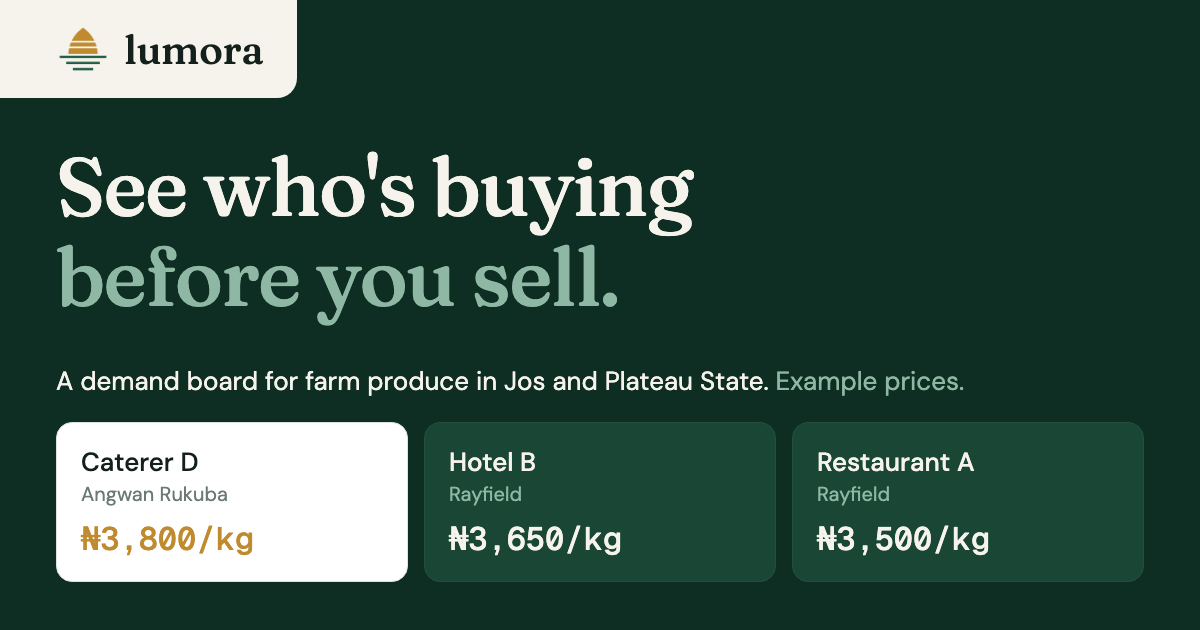
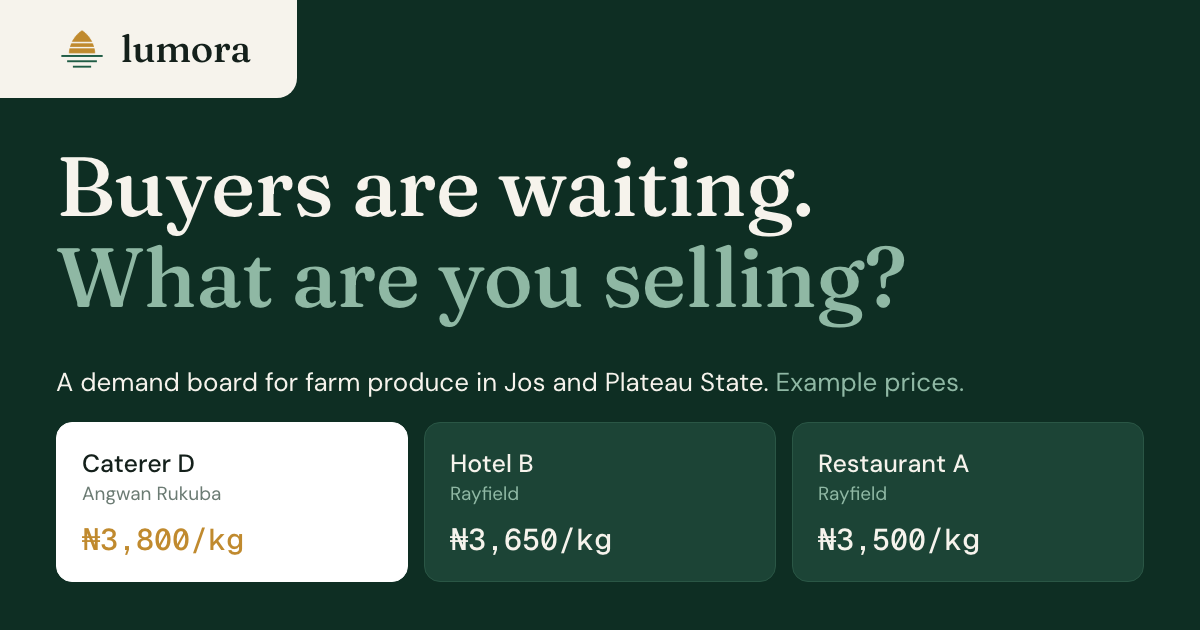
feat: new tagline, "Buyers are waiting. What are you selling?"
- Update the landing headline, Marketplace header, auth screen and site title
- Rebuild the Open Graph and Twitter share images with the new line
- Update BRAND.md and README.md

diff --git a/front-end/app/dashboard/marketplace/page.tsx b/front-end/app/dashboard/marketplace/page.tsx
@@ -266,7 +266,7 @@ export default function MarketplacePage() {
           <div className="px-5 pt-24 pb-6 sm:px-10 sm:pt-28 sm:pb-9 lg:px-14 lg:pt-32 lg:pb-11">
             <p data-card="rise" className="text-body-sm font-medium text-ink/70">Lumora · Marketplace</p>
             <h1 data-card="rise" className="mt-1 text-[28px] leading-[1.15] font-medium tracking-tight text-ink sm:text-[38px]">
-              See who&apos;s buying<br /><span className="text-green">before you sell.</span>
+              Buyers are waiting.<br /><span className="text-green">What are you selling?</span>
             </h1>
             <p data-card="rise" className="mt-2 max-w-[32rem] text-body text-ink/80">
               Active buyers near Jos. Real bids, live capacity.

diff --git a/front-end/components/landing/hero.tsx b/front-end/components/landing/hero.tsx
@@ -102,7 +102,7 @@ export function Hero() {
             "max-w-[40rem] font-display text-display-xl-sm font-medium text-balance md:text-display-xl",
           )}
         >
-          See who&apos;s buying <span className="text-sage">before you sell.</span>
+          Buyers are waiting. <span className="block text-sage">What are you selling?</span>
         </h1>
         <p
           className={cn(ENTER, "mt-4 max-w-[34rem] text-lg leading-7 motion-safe:delay-100")}

diff --git a/front-end/lib/site.ts b/front-end/lib/site.ts
@@ -1,5 +1,5 @@
 export const SITE_NAME = "Lumora";
-export const SITE_TAGLINE = "See who's buying before you sell";
+export const SITE_TAGLINE = "Buyers are waiting. What are you selling?";
 export const SITE_DESCRIPTION =
   "A demand board for farm produce in Jos and Plateau State. Buyers post what they need and what they'll pay. Farmers book it before they load the truck.";
 

diff --git a/front-end/components/auth/auth-shell.tsx b/front-end/components/auth/auth-shell.tsx
@@ -76,7 +76,7 @@ export function AuthShell({ children }: { children: ReactNode }) {
                   className="h-6 w-auto"
                 />
               </span>
-              See who&apos;s buying before you sell.
+              Buyers are waiting. What are you selling?
             </p>
           </div>
         </aside>

diff --git a/front-end/BRAND.md b/front-end/BRAND.md
@@ -8,7 +8,7 @@ This file is the source of truth for Lumora's visual identity and UI. Follow it 
 
 Lumora is a demand board for farm produce. Bulk buyers post what they need, the price per unit and their daily capacity; farmers see every bid, book a slot, deliver and get paid by weight. The name comes from *lumen* (light): Lumora makes hidden demand visible. The product should feel like a calm, trustworthy market board, closer to a fintech or exchange than to a farm-themed startup.
 
-**Tagline:** See who's buying before you sell.
+**Tagline:** Buyers are waiting. What are you selling?
 
 ---
 
@@ -364,7 +364,7 @@ Show status as **plain text with an icon**, never as coloured dot pills.
 
 | Place | Copy |
 |---|---|
-| Hero headline | See who's buying before you sell. |
+| Hero headline | Buyers are waiting. What are you selling? |
 | Hero subline | Buyers post what they need and what they'll pay. Farmers book it before they load the truck. |
 | Buyer CTA | Post your demand |
 | Producer CTA | See buyers near you |

diff --git a/README.md b/README.md
@@ -1,6 +1,6 @@
 # Lumora
 
-**See who's buying before you sell.**
+**Buyers are waiting. What are you selling?**
 
 Lumora is a demand board for farm produce: live poultry, eggs, tomatoes, grains and other raw agricultural commodities. Bulk buyers such as restaurants, hotels, schools, caterers and processors publish what they need, the price they will pay per unit and how much they can take each day. Farmers and aggregators see every active buyer near them, book a slot, deliver, and get paid on the weight or quantity the buyer records.
 
